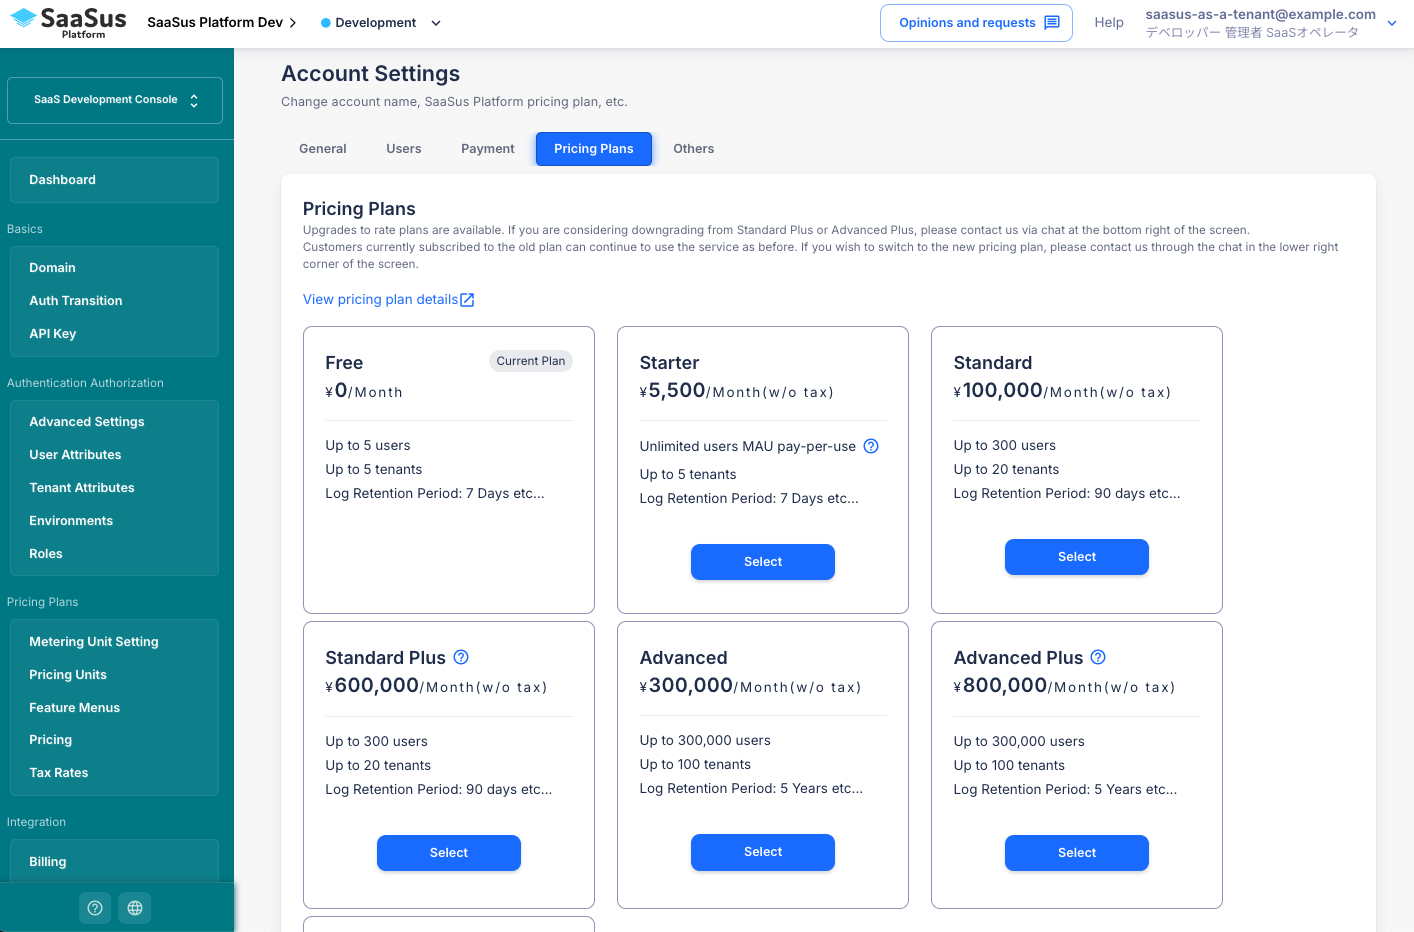
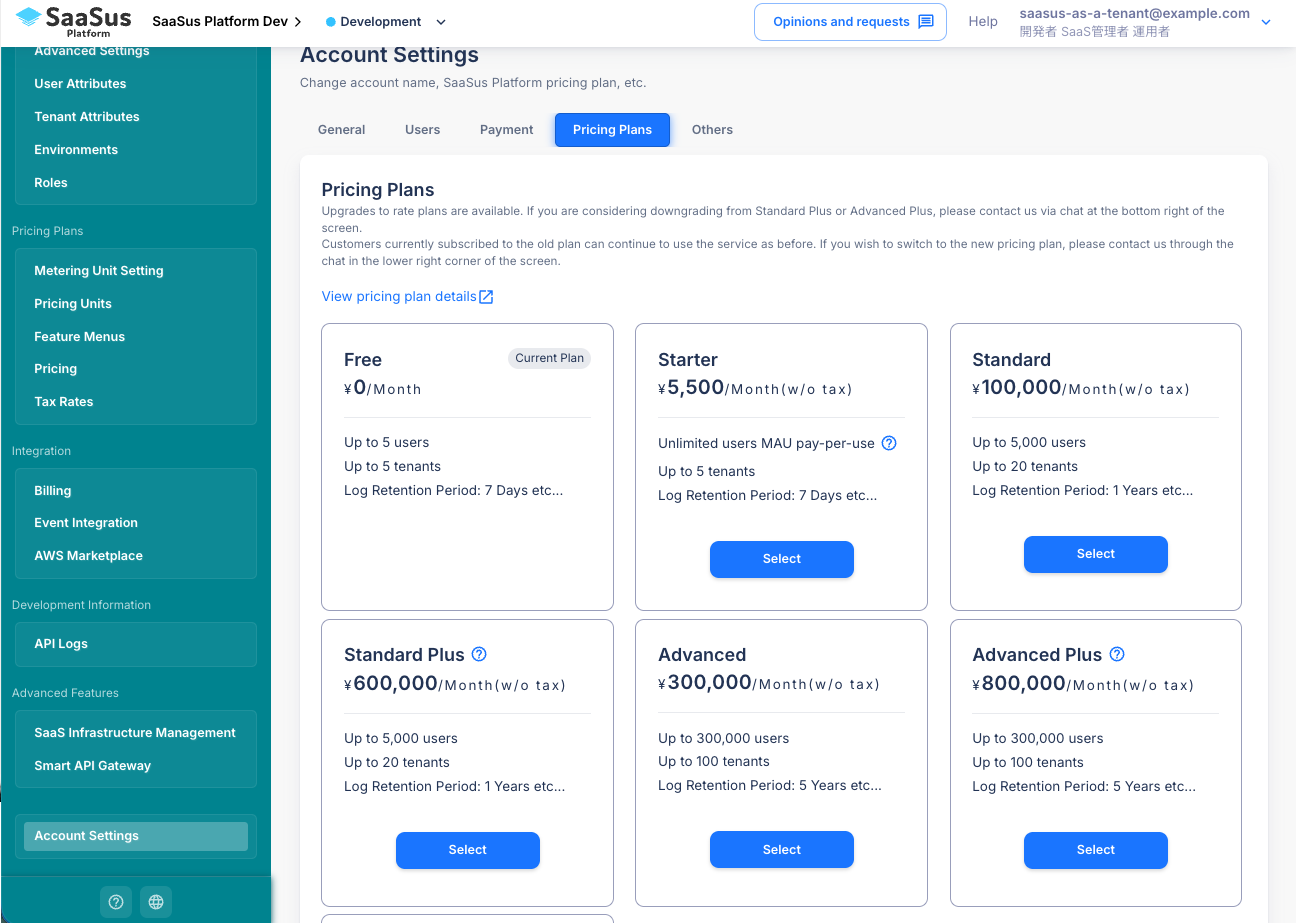
有料プランの申し込み手順に関する情報を更新し、料金や利用条件を修正

diff --git a/i18n/ja/docusaurus-plugin-content-docs/current/part-4/account-settings/procedure-for-applying-for-a-paid-plan.md b/i18n/ja/docusaurus-plugin-content-docs/current/part-4/account-settings/procedure-for-applying-for-a-paid-plan.md
@@ -4,7 +4,7 @@ slug: "procedure-for-applying-for-a-paid-plan"
 excerpt: ""
 hidden: false
 createdAt: "Thu Jul 20 2023 04:44:09 GMT+0000 (Coordinated Universal Time)"
-updatedAt: "Tue Jan 09 2024 10:27:04 GMT+0000 (Coordinated Universal Time)"
+updatedAt: "Thu Mar 13 2026 02:53:18 GMT+0000 (Coordinated Universal Time)"
 ---
 
 SaaSus Platformでは以下プランを現在用意しております。  
@@ -64,9 +64,9 @@ SaaSus Platformでは以下プランを現在用意しております。
       <td>スタンダード</td>
       <td className="text-right">¥100,000</td>
       <td className="text-right">3</td>
-      <td className="text-right">300</td>
+      <td className="text-right">5,000</td>
       <td className="text-right">20</td>
-      <td className="text-right">90 日</td>
+      <td className="text-right">1 年</td>
       <td className="text-right">1 個</td>
       <td>1万コールまでは無料<br />それ以降15円/1万コール</td>
       <td>7/day までは無料<br />それ以降50円/1回</td>
@@ -78,9 +78,9 @@ SaaSus Platformでは以下プランを現在用意しております。
       <td>スタンダードプラス</td>
       <td className="text-right">¥600,000</td>
       <td className="text-right">3</td>
-      <td className="text-right">300</td>
+      <td className="text-right">5,000</td>
       <td className="text-right">20</td>
-      <td className="text-right">90 日</td>
+      <td className="text-right">1 年</td>
       <td className="text-right">1 個</td>
       <td>1万コールまでは無料<br />それ以降15円/1万コール</td>
       <td>7/dayまでは無料<br />それ以降50円/1回</td>

diff --git a/i18n/ja/docusaurus-plugin-content-docs/version-1.12/part-4/account-settings/procedure-for-applying-for-a-paid-plan.md b/i18n/ja/docusaurus-plugin-content-docs/version-1.12/part-4/account-settings/procedure-for-applying-for-a-paid-plan.md
@@ -4,7 +4,7 @@ slug: "procedure-for-applying-for-a-paid-plan"
 excerpt: ""
 hidden: false
 createdAt: "Thu Jul 20 2023 04:44:09 GMT+0000 (Coordinated Universal Time)"
-updatedAt: "Tue Jan 09 2024 10:27:04 GMT+0000 (Coordinated Universal Time)"
+updatedAt: "Thu Mar 13 2026 02:53:18 GMT+0000 (Coordinated Universal Time)"
 ---
 
 SaaSus Platformでは以下プランを現在用意しております。  
@@ -64,9 +64,9 @@ SaaSus Platformでは以下プランを現在用意しております。
       <td>スタンダード</td>
       <td className="text-right">¥100,000</td>
       <td className="text-right">3</td>
-      <td className="text-right">300</td>
+      <td className="text-right">5,000</td>
       <td className="text-right">20</td>
-      <td className="text-right">90 日</td>
+      <td className="text-right">1 年</td>
       <td className="text-right">1 個</td>
       <td>1万コールまでは無料<br />それ以降15円/1万コール</td>
       <td>7/day までは無料<br />それ以降50円/1回</td>
@@ -78,9 +78,9 @@ SaaSus Platformでは以下プランを現在用意しております。
       <td>スタンダードプラス</td>
       <td className="text-right">¥600,000</td>
       <td className="text-right">3</td>
-      <td className="text-right">300</td>
+      <td className="text-right">5,000</td>
       <td className="text-right">20</td>
-      <td className="text-right">90 日</td>
+      <td className="text-right">1 年</td>
       <td className="text-right">1 個</td>
       <td>1万コールまでは無料<br />それ以降15円/1万コール</td>
       <td>7/dayまでは無料<br />それ以降50円/1回</td>

diff --git a/docs/part-4/account-settings/procedure-for-applying-for-a-paid-plan.md b/docs/part-4/account-settings/procedure-for-applying-for-a-paid-plan.md
@@ -4,7 +4,7 @@ slug: "procedure-for-applying-for-a-paid-plan"
 excerpt: ""
 hidden: false
 createdAt: "Thu Jul 20 2023 04:44:09 GMT+0000 (Coordinated Universal Time)"
-updatedAt: "Tue Jan 09 2024 10:27:04 GMT+0000 (Coordinated Universal Time)"
+updatedAt: "Thu Mar 13 2026 02:53:18 GMT+0000 (Coordinated Universal Time)"
 ---
 
 The SaaSus Platform currently offers the following plans.  
@@ -64,9 +64,9 @@ To apply for a paid plan, you can either apply through the SaaS Development Cons
       <td>Standard</td>
       <td className="text-right">¥100,000</td>
       <td className="text-right">3</td>
-      <td className="text-right">300</td>
+      <td className="text-right">5,000</td>
       <td className="text-right">20</td>
-      <td className="text-right">90 days</td>
+      <td className="text-right">1 year</td>
       <td className="text-right">1 slot</td>
       <td>Free up to 10k calls<br />¥15 per 10k calls after that</td>
       <td>Up to 7/day free<br />¥50 per upload after</td>
@@ -78,9 +78,9 @@ To apply for a paid plan, you can either apply through the SaaS Development Cons
       <td>Standard Plus</td>
       <td className="text-right">¥600,000</td>
       <td className="text-right">3</td>
-      <td className="text-right">300</td>
+      <td className="text-right">5,000</td>
       <td className="text-right">20</td>
-      <td className="text-right">90 days</td>
+      <td className="text-right">1 year</td>
       <td className="text-right">1 slot</td>
       <td>Free up to 10k calls<br />¥15 per 10k calls after that</td>
       <td>Up to 7/day free<br />¥50 per upload after</td>

diff --git a/versioned_docs/version-1.12/part-4/account-settings/procedure-for-applying-for-a-paid-plan.md b/versioned_docs/version-1.12/part-4/account-settings/procedure-for-applying-for-a-paid-plan.md
@@ -4,7 +4,7 @@ slug: "procedure-for-applying-for-a-paid-plan"
 excerpt: ""
 hidden: false
 createdAt: "Thu Jul 20 2023 04:44:09 GMT+0000 (Coordinated Universal Time)"
-updatedAt: "Tue Jan 09 2024 10:27:04 GMT+0000 (Coordinated Universal Time)"
+updatedAt: "Thu Mar 13 2026 02:53:18 GMT+0000 (Coordinated Universal Time)"
 ---
 
 The SaaSus Platform currently offers the following plans.  
@@ -64,9 +64,9 @@ To apply for a paid plan, you can either apply through the SaaS Development Cons
       <td>Standard</td>
       <td className="text-right">¥100,000</td>
       <td className="text-right">3</td>
-      <td className="text-right">300</td>
+      <td className="text-right">5,000</td>
       <td className="text-right">20</td>
-      <td className="text-right">90 days</td>
+      <td className="text-right">1 year</td>
       <td className="text-right">1 slot</td>
       <td>Free up to 10k calls<br />¥15 per 10k calls after that</td>
       <td>Up to 7/day free<br />¥50 per upload after</td>
@@ -78,9 +78,9 @@ To apply for a paid plan, you can either apply through the SaaS Development Cons
       <td>Standard Plus</td>
       <td className="text-right">¥600,000</td>
       <td className="text-right">3</td>
-      <td className="text-right">300</td>
+      <td className="text-right">5,000</td>
       <td className="text-right">20</td>
-      <td className="text-right">90 days</td>
+      <td className="text-right">1 year</td>
       <td className="text-right">1 slot</td>
       <td>Free up to 10k calls<br />¥15 per 10k calls after that</td>
       <td>Up to 7/day free<br />¥50 per upload after</td>
